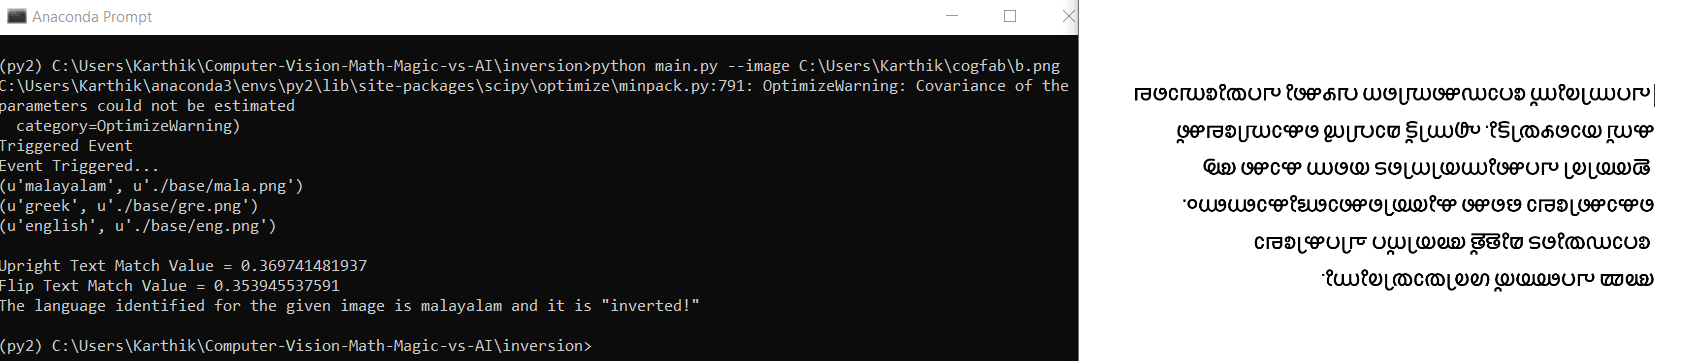
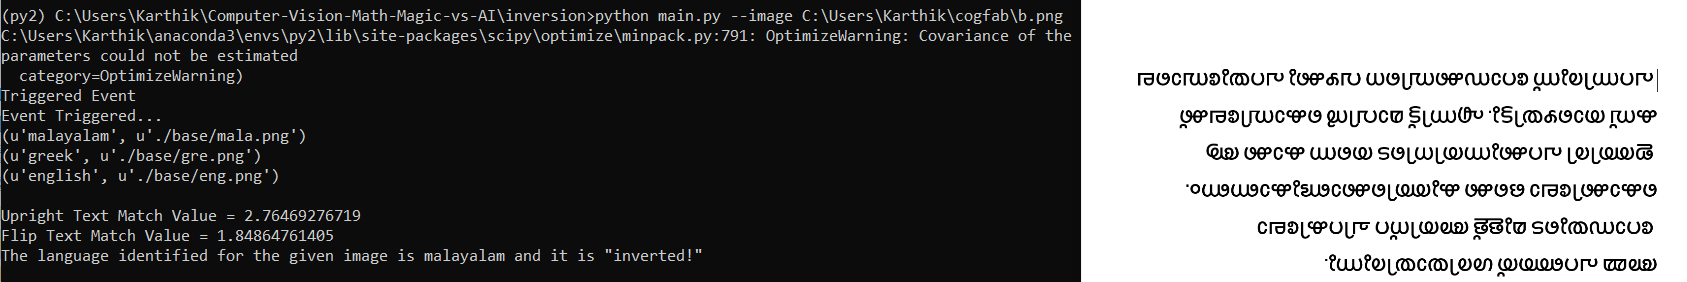
Corrections for malayalam

diff --git a/Inverted_or_upright.py b/Inverted_or_upright.py
@@ -1,6 +1,3 @@
-# Stub code taken from below link and modified extensively to cater to the use case. 
-# https://github.com/creotiv/computer_vision/tree/master/shape_context
-
 import numpy as np
 import cv2
 import sys
@@ -122,7 +119,8 @@ def language_identification(language_base,testImg):
         langs.append(language)
         langs = list(set(langs))
     #checking for the minimal matchfactor to identify the language
-    matc = min(matchs)
+    #matc = min(matchs)
+    matc = min(matchs, key = lambda t: t[1])
     index = matchs.index(matc)
     language_identified = langs[index]
 
@@ -130,6 +128,8 @@ def language_identification(language_base,testImg):
     
             
             
+
+    
 
 
 

diff --git a/README.md b/README.md
@@ -10,17 +10,17 @@ In this project, an algorithm to efficiently localize text has been implemented.
 
 ## How to run:
 ```
-docker pull karthik199712/inversion:cv
+docker pull karthik199712/computer_vision:cv
 ```
 To execute the pipeline with default image:
 ```
-sudo docker run -it karthik199712/inversion:cv main.py
+sudo docker run -it karthik199712/computer_vision:cv main.py
 ```
 To execute the pipeline with an image in the dataset, give the image path and name after --image flag. 
 
 For instance, to execute with 11.png input image, command is as below:
 ```
-sudo docker run -it karthik199712/inversion:cv main.py --image ./data/11.png
+sudo docker run -it karthik199712/computer_vision:cv main.py --image ./data/11.png
 ```
 The deep learning implementation for comparison is available in VGG16_INFERENCE_BASE.ipynb.
 
@@ -28,7 +28,7 @@ You can find some output examples as below.
 
 ## Upright English Image
 ```
-sudo docker run -it karthik199712/inversion:cv main.py --image ./data/0.png
+sudo docker run -it karthik199712/computer_vision:cv main.py --image ./data/0.png
 ```
 <p align="center">
   <img src="upright.png">
@@ -36,7 +36,7 @@ sudo docker run -it karthik199712/inversion:cv main.py --image ./data/0.png
 
 ## Inverted English Image
 ```
-sudo docker run -it karthik199712/inversion:cv main.py --image ./data/1.png
+sudo docker run -it karthik199712/computer_vision:cv main.py --image ./data/1.png
 ```
 <p align="center">
   <img src="inverted.png">
@@ -44,7 +44,7 @@ sudo docker run -it karthik199712/inversion:cv main.py --image ./data/1.png
 
 ## Upright Malayalam Image
 ```
-sudo docker run -it karthik199712/inversion:cv main.py --image ./data/mal1.png
+sudo docker run -it karthik199712/computer_vision:cv main.py --image ./data/mal1.png
 ```
 <p align="center">
   <img src="mal_upright.png">
@@ -52,7 +52,7 @@ sudo docker run -it karthik199712/inversion:cv main.py --image ./data/mal1.png
 
 ## Inverted English Image
 ```
-sudo docker run -it karthik199712/inversion:cv main.py --image ./data/mal2.png
+sudo docker run -it karthik199712/computer_vision:cv main.py --image ./data/mal2.png
 ```
 <p align="center">
   <img src="mal_inverted.png">
@@ -60,7 +60,7 @@ sudo docker run -it karthik199712/inversion:cv main.py --image ./data/mal2.png
 
 ## Upright Greek Image
 ```
-sudo docker run -it karthik199712/inversion:cv main.py --image ./data/greek1.png
+sudo docker run -it karthik199712/computer_vision:cv main.py --image ./data/greek1.png
 ```
 <p align="center">
   <img src="greek_upright.png">
@@ -68,7 +68,7 @@ sudo docker run -it karthik199712/inversion:cv main.py --image ./data/greek1.png
 
 ## Inverted Greek Image
 ```
-sudo docker run -it karthik199712/inversion:cv main.py --image ./data/greek2.png
+sudo docker run -it karthik199712/computer_vision:cv main.py --image ./data/greek2.png
 ```
 <p align="center">
   <img src="greek_inverted.png">
